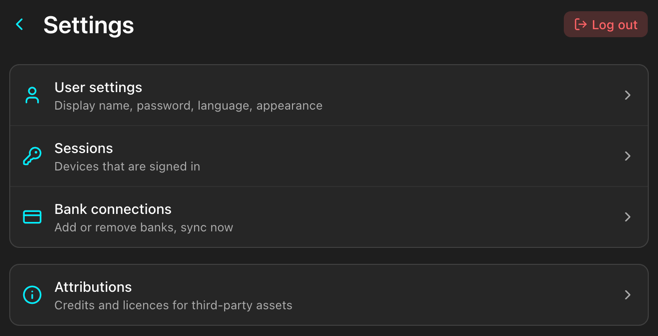
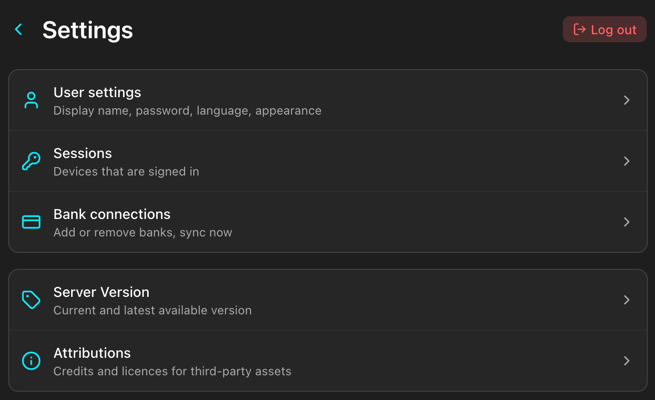
Update docs

diff --git a/README.md b/README.md
@@ -1,7 +1,5 @@
 # Quaestor
 
-Your self-hosted, read-only treasurer: a personal finance overview across all your bank accounts.
-
 > "The Quaestor [...] is a senior executive, and is responsible for the finances [...]; the equivalent of treasurer, Finance Director." Source: [Wikipedia](https://en.wikipedia.org/wiki/Quaestor_(University_of_St_Andrews))
 
 Quaestor consolidates the balances and transactions from all your banks into a single view → no more juggling a separate app per bank. Click any account to browse its transactions, grouped by date.
@@ -9,7 +7,7 @@ Quaestor consolidates the balances and transactions from all your banks into a s
 The tool is strictly read-only: it only ever *reads* your data and can **never** make changes to your accounts or move money.
 
 > [!NOTE]
-> This project is still in early development and might include major changes in the near future.
+> This project is still in early development and [might include major changes in the near future](#future-changes).
 
 ## Screenshots
 
@@ -163,4 +161,4 @@ sqlite> SELECT id, user_id, bank, username FROM credentials;
 
 ## Future changes
 
-There is [a doc](docs/ideas_for_the_future.md) in which I add ideas I might want to implement in the future. If you think anything is missing feel free to open an issue/PR.
+There is [a doc](docs/ideas_for_the_future.md) in which I add ideas I might want to implement in the future. If you think anything is missing, feel free to open an issue/PR.